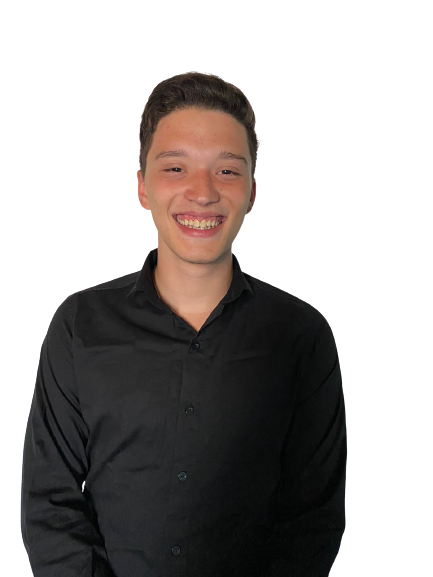
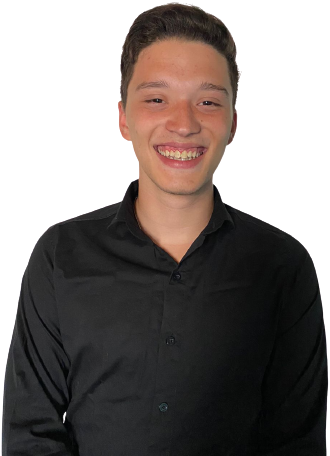
Foto retocada, creo que ya está listo

diff --git a/index.html b/index.html
@@ -37,8 +37,10 @@
         <section class="secHero">
             <div class="container">
                 <div class="hero">
-                    <div class="rellax foto" data-rellax-speed="1" >
-                        <img src="img/yo.png" alt="">
+                    <div class="foto-inner">
+                        <div class="rellax foto" data-rellax-speed="1" >
+                            <img src="img/yo.png" alt="">
+                        </div>
                     </div>
                     
                     <div class="desc">
@@ -67,7 +69,7 @@
                 <h2 class="section-title rellax" data-rellax-speed="-1" >Sobre mí</h2>
 
                 <div class="paragraph">
-                    <p>Soy Thiago Santamaria y tengo 21 años. Realicé varios cursos en la plataforma de <strong>CoderHouse</strong>, donde aprendí a manejar <strong>HTML , CSS y Javascript</strong>, junto con varias librerías.</p>
+                    <p>Soy Thiago Santamaria y tengo 21 años. Realicé varios cursos en la plataforma de <strong>CoderHouse</strong>, donde aprendí a manejar <strong>HTML , CSS y Javascript</strong>, junto con varias librerías. Actualmente me encuentro haciendo un curso de <strong>React JS.</strong> Cuando este mismo concluya, tomaré otro de <strong>Programación BackEnd</strong></p>
                 </div>
                 <div class="paragraph">
                     <p class="paragraph">Soy una persona organizada y responsable, con comunicación asertiva. Siempre tengo la mejor disposición y compromiso para la realización de mis labores. Mi objetivo como desarrollador es lograr satisfactoriamente lo encomendado con un equipo de trabajo. </p>
@@ -101,7 +103,7 @@
                 <ul class="skills-list">
                     <h2 class="skill-title">Idiomas:</h2>
                     <li class="skill">Español (Nativo)</li>
-                    <li class="skill">Inglés (Avanzado)</li>
+                    <li class="skill">Inglés (Avanzado y con certificado)</li>
                 </ul>
 
                 <div class="section-footer">
@@ -113,14 +115,14 @@
 
         <section class="section porfolio" id="portfolio">
             <div class="container">
-                <h2 class="rellax section-title" data-rellax-speed="1">Portfolio</h2>
-                <p class="paragraph">Aquí mostraré los proyectos en los que trabajé y estoy trabajando.</p>
+                <h2 class="rellax section-title" data-rellax-speed="-1">Portfolio</h2>
+                <p class="paragraph">Aquí mostraré los proyectos en los que trabajé y estoy trabajando actualmente.</p>
                 <div class="project-list">
                     <article class="project">
                         <div class="project-icons">
                             <ion-icon name="folder-outline"></ion-icon>
-                            <a href=""><ion-icon name="logo-github"></ion-icon></a>
-                            <a href=""><ion-icon name="link-outline"></ion-icon></a>
+                            <a href="https://github.com/thiagofrivs/proyecto" target="_blank"><ion-icon name="logo-github"></ion-icon></a>
+                            <a href="https://thiagofrivs.github.io/proyecto/" target="_blank"><ion-icon name="link-outline"></ion-icon></a>
                         </div>
                         <h3 class="project-title">TIENDA DE COMPONENTES</h3>
                         <p>Tienda de componentes sencilla</p>
@@ -129,13 +131,14 @@
                             <li class="skill">CSS</li>
                             <li class="skill">JavaScript</li>
                             <li class="skill">JSON</li>
+                            <li class="skill">Fetch</li>
                         </ul>
                     </article>
                     <article class="project">
                         <div class="project-icons">
                             <ion-icon name="folder-outline"></ion-icon>
-                            <a href=""><ion-icon name="logo-github"></ion-icon></a>
-                            <a href="https://thiagofrivs.github.io/proyectoFinalSantamaria/index.html"><ion-icon name="link-outline"></ion-icon></a>
+                            <a href="https://github.com/thiagofrivs/MYSconsultores" target="_blank"><ion-icon name="logo-github"></ion-icon></a>
+                            <a href="https://thiagofrivs.github.io/MYSconsultores/" target="_blank"><ion-icon name="link-outline"></ion-icon></a>
                         </div>
                         <h3 class="project-title">MYS Consultores</h3>
                         <p>Boarding page de un estudio contable</p>
@@ -147,8 +150,8 @@
                     <article class="project">
                         <div class="project-icons">
                             <ion-icon name="folder-outline"></ion-icon>
-                            <a href=""><ion-icon name="logo-github"></ion-icon></a>
-                            <a href=""><ion-icon name="link-outline"></ion-icon></a>
+                            <a href="https://github.com/thiagofrivs/miPagina" target="_blank"><ion-icon name="logo-github"></ion-icon></a>
+                            <a href="https://thiagosantamaria.com"><ion-icon name="link-outline"></ion-icon></a>
                         </div>
                         <h3 class="project-title">MI Portfolio</h3>
                         <p>Esta pagina es mi portfolio personal.</p>
@@ -170,7 +173,7 @@
 
         <section id="contact" class="section contact">
             <div class="container">
-                <h2 class="rellax section-title" data-rellax-speed="1">Contacto</h2>
+                <h2 class="rellax section-title" data-rellax-speed="-1">Contacto</h2>
                 <p class="paragraph">Mi bandeja de entrada está siempre abierta para consultas. ¡No dudes en escribirme y te responderé lo antes posible!</p>
                 <p class="paragraph">Envíame un mail a <a href="mailto:thiagosantamaria01@gmail.com">thiagosantamaria01@gmail.com</a></p>
                 <section class="section-footer section-contact">

diff --git a/css/styles.css b/css/styles.css
@@ -19,6 +19,8 @@ scroll-behavior: smooth;
     --type-font-paragraph: 'Kanit', sans-serif;
 }
 
+
+
 *{
     margin: 0;
     padding: 0;
@@ -37,7 +39,9 @@ li{
 body{
     background-image: url("../img/noise.png");
     background-color: var(--clr-back);
+
 }   
+
 
 p{
     color: var(--clr-font);
@@ -60,6 +64,7 @@ header{
     background-color: var(--clr-black);
     position: fixed;
     width: 100%;
+    z-index: 9999;
 }
 
 
@@ -117,6 +122,8 @@ header{
     cursor: pointer;
     border-radius: 5px;
     width: 2rem;
+    margin: .5rem 2rem;
+    color: var(--clr-font-light);
 }
 
 
@@ -142,6 +149,7 @@ header{
     max-width: 1000px;
     margin: 0 auto;
     padding-inline: 1.5rem;
+    
 }
 
 .secHero{
@@ -167,7 +175,7 @@ header{
     padding-block: 1rem;
     display: flex;
     align-items: center;
-    gap: .1rem;
+    gap: 2rem;
     
 }
 
@@ -223,7 +231,7 @@ h1{
     align-items: center;
     text-transform: lowercase;
     font-size: 3rem;
-    margin-bottom: 1.5rem;
+    margin-bottom: 3rem;
     font-family: var(--type-font-nav);
     color: var(--clr-font);
     gap: .5rem;
@@ -362,7 +370,7 @@ h1{
     border-radius: .25rem;
     border: 1px solid var(--clr-gry);
     transition: .2s;
-    z-index: -1;
+    /* z-index: -1; */
 }
 
 .project-icons{
@@ -370,6 +378,8 @@ h1{
     justify-content: end;
     gap: 1rem;
     margin-bottom: 1.4rem;
+    position: relative;
+    z-index: 1;
 }
 
 .project-icons ion-icon{
@@ -381,6 +391,9 @@ h1{
 
 .project-icons a ion-icon{
     color: var(--clr-font);
+}
+.project-icons a ion-icon:hover{
+    color: var(--clr-blue-font);
 }
 
 
@@ -395,8 +408,6 @@ h1{
     gap: .5rem;
     margin-top: 1.4rem;
 }
-
-
 
 .project:hover{
     border: 1px solid var(--clr-blue-font);
@@ -432,9 +443,6 @@ h1{
     transition: .2s;
 }
 
-.icons{
-    z-index: -1;
-}
 
 .main-footer-inner a:hover{
     color: var(--clr-blue-font);
@@ -506,16 +514,15 @@ footer{
 
     
 
-    .nav{
-        width: 45%;
-        height: 100vh;
-    }
+    
 
     .open-menu,.close-menu{
         display: flex;
     }
 
     .nav {
+        width: 45%;
+        height: 100vh;
         position: fixed;
         inset: 0;
         right: auto;
@@ -527,6 +534,8 @@ footer{
         transform: translateX(-300%);
         transition: transform .2s cubic-bezier(0.075, 0.82, 0.165, 1);
     }
+    
+
     .nav.visible {
         transform: translateX(0);
     }
@@ -546,13 +555,6 @@ footer{
         justify-content: center;
     }
 
-    
-
-    .project-list{
-        display: flex;
-        flex-direction: column;
-        width: 20rem;
-    }
 
     .desc p{
         font-size: 1.5rem;
